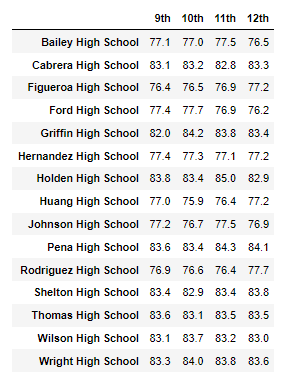
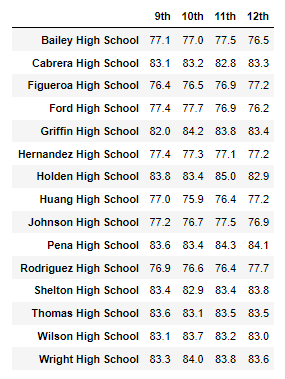
formatitng png files for report

diff --git a/README.md b/README.md
@@ -1,4 +1,46 @@
 # School_District_Analysis
+## Overview of the school district analysis: Explain the purpose of this analysis.
 
+
+
+## Results: Using bulleted lists and images of DataFrames as support, address the following questions.
+
+- How is the district summary affected?
 
 <img src= 'Resources/district_summary.png'>
+<img src= 'Resources/district_summary_no_ths9.png'>
+
+- How is the school summary affected?
+- How does replacing the ninth graders’ math and reading scores affect Thomas High School’s performance relative to the other schools?
+- How does replacing the ninth-grade scores affect the following:
+- Math and reading scores by grade
+
+  - Math Scores
+
+<img src= 'Resources/math_test_scores_all.png'>
+<img src= 'Resources/math_test_scores_no_ths9.png'>
+
+ - - Reading scores
+
+<img src= 'Resources/reading_test_scores_all.png'>
+<img src= 'Resources/reading_test_scores_no_ths9.png'>
+
+  - Scores by school spending
+
+  <img src= 'Resources/school_spending_summary.png'>
+  <img src= 'Resources/school_spending_summary_no_ths9.png'>
+
+  - Scores by school size
+
+  <img src= 'Resources/school_size_summary.png'>
+  <img src= 'Resources/school_size_summary_no_ths9.png'>
+
+  - Scores by school type
+
+  <img src= 'Resources/school_type_summary.png'>
+  <img src= 'Resources/school_type_summary_no_ths9.png'>
+
+## Summary: Summarize four changes in the updated school district analysis after reading and math scores for the ninth grade at Thomas High School have been replaced with NaNs.
+
+
+
